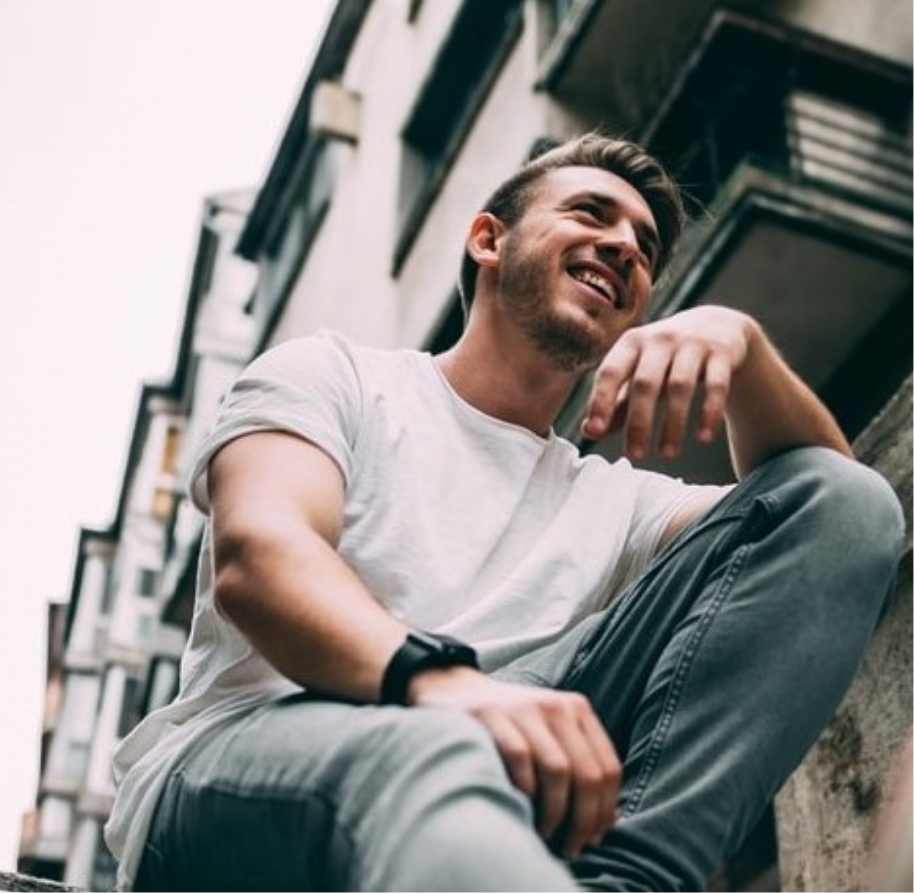
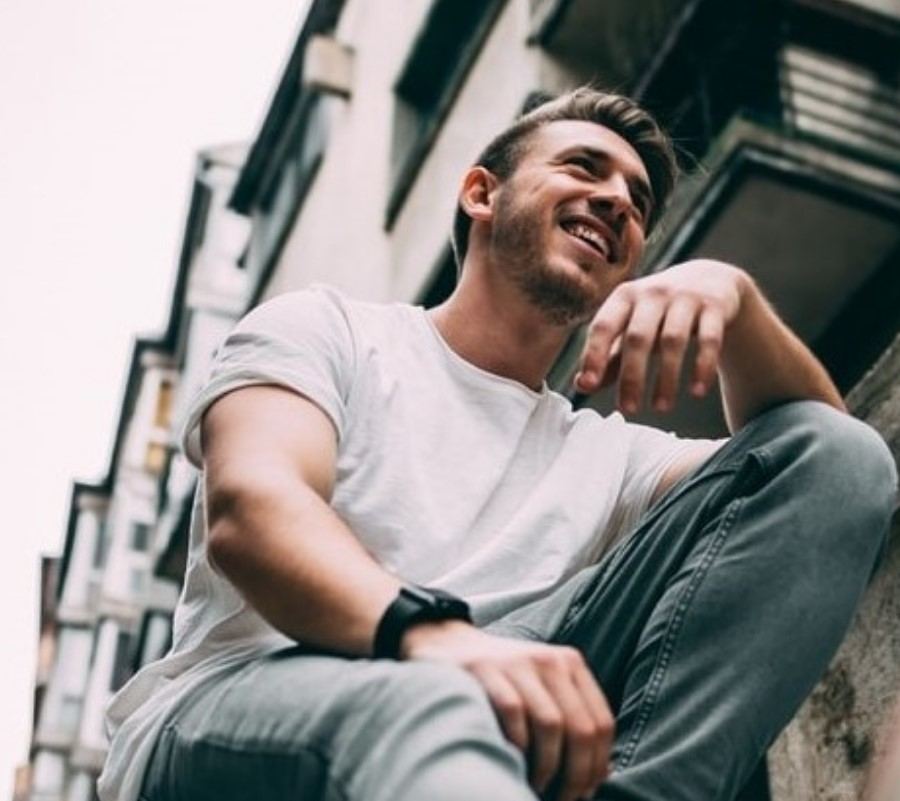
chage css styles for index page

diff --git a/client/styles/pages/index.module.css b/client/styles/pages/index.module.css
@@ -4,21 +4,21 @@
 }
 
 .collection {
-  height: 500px;
+  height: 550px;
   display: flex;
-  border: 1px solid red;
 }
 
 .collection__content {
-  width: 40%;
+  width: 45%;
   display: flex;
   flex-direction: column;
+  padding-left: 5rem;
   justify-content: center;
-  align-items: center;
 }
 
 .collection__photo {
-  width: 60%;
+  width: 55%;
+  overflow: hidden;
 }
 
 .collection__img {
@@ -41,4 +41,5 @@
   background: transparent;
   border: none;
   cursor: pointer;
+  align-self: flex-start;
 }
